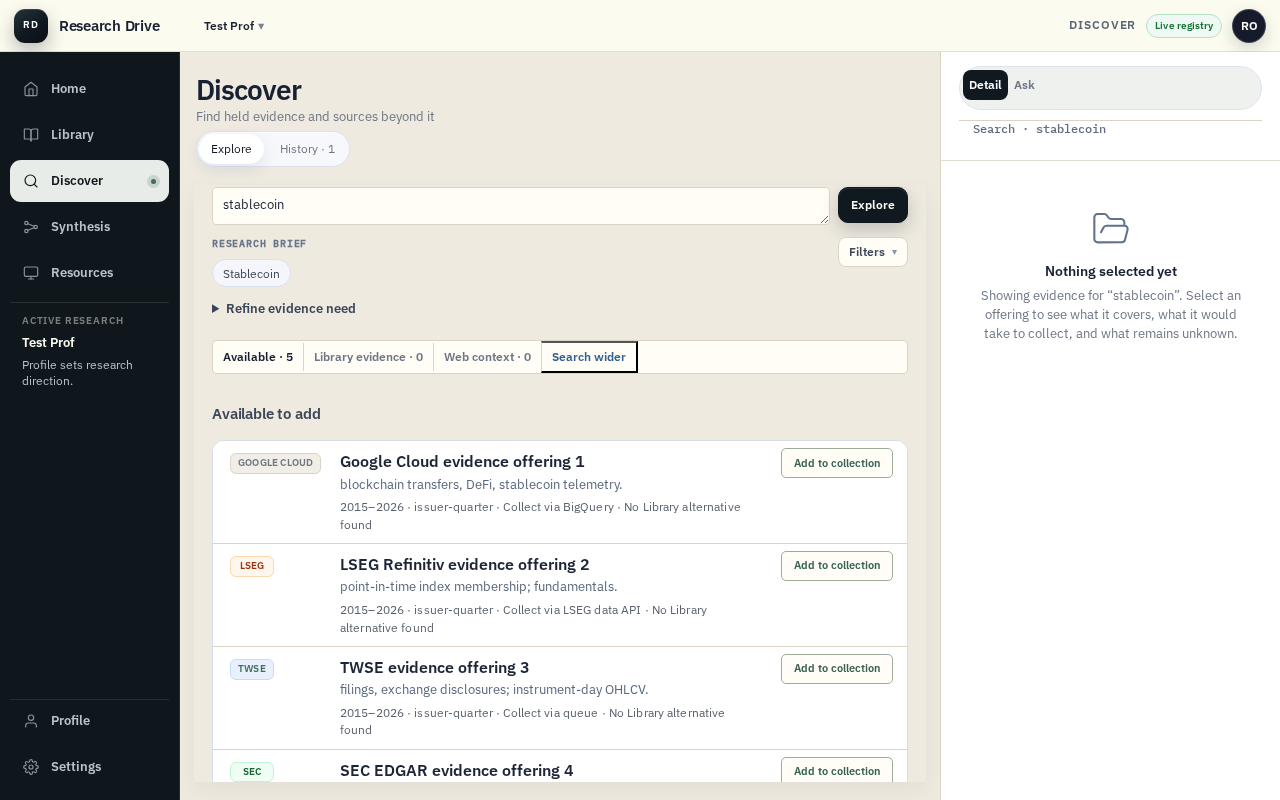
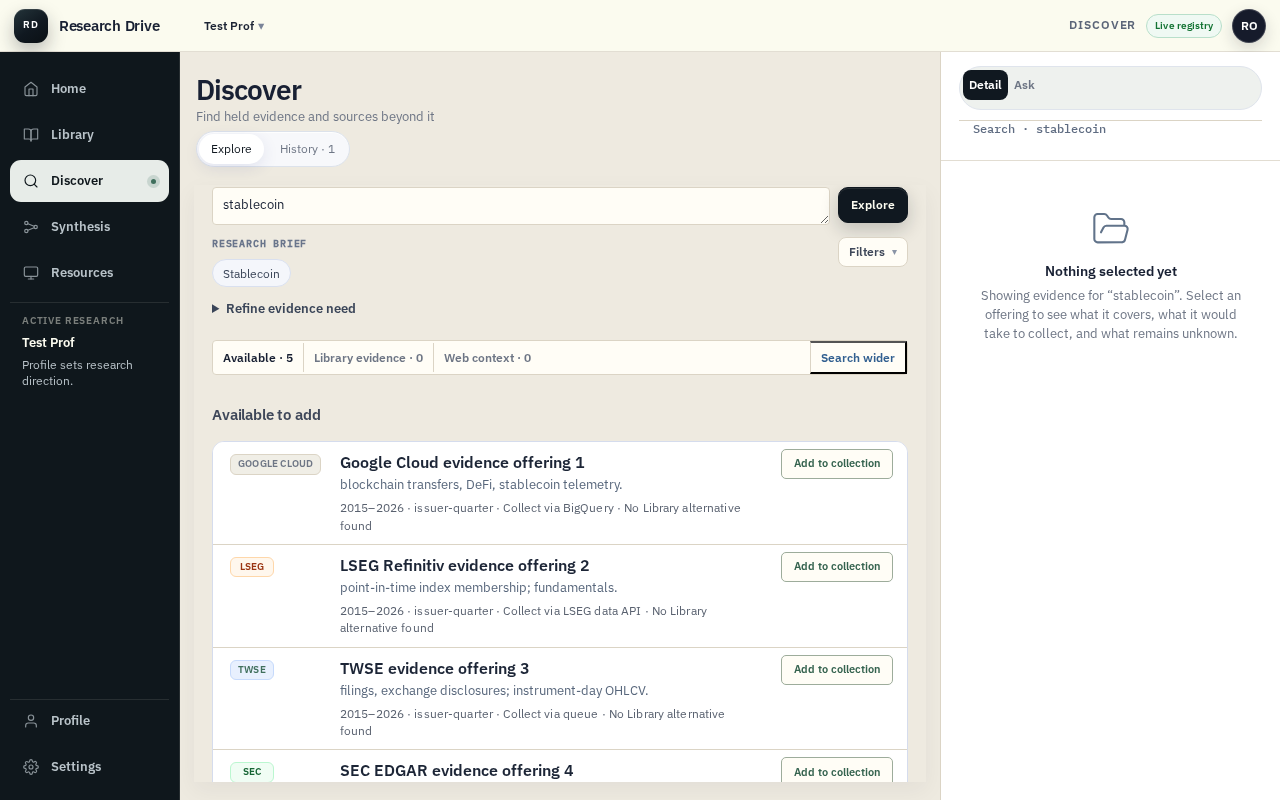
feat(discover): bound the result list and separate counts from actions
At 20 offerings the list painted as one unbroken column: no total, no sense
of what was below the fold, no way to act on it. The 5-item state we had been
reviewing against hid this completely.

UI_IMPLEMENTATION_PROGRAM already rules on this shape for History -- "Initial
lifecycle viewport budget is 8-12 rows with explicit Load more; do not
recreate an endless activity feed through infinite scrolling" -- so the
results list takes the same discipline rather than a new invention: eight
rows, the total stated, and expansion as a deliberate act. A selection below
the budget forces the list open and disables collapsing, so a selected
offering can never be hidden by the budget.

I did not add a sort control. Ranking is already stated and grounded
("Ranked using active research + interpreted evidence need"); a sort
dropdown is UI the frozen Discover appendix does not specify, and inventing
it here is how composition drifts.

The chrome strip styled counts and actions identically, so `Search wider`
read as a selected fourth tab beside "Available · 20" rather than as
something pressable. Counts stay left as scope segments; actions group right
in the action colour. Chrome type goes 11.5px -> 12px, since half-pixel type
is the same drift as 13.12px.

Gated: above the budget the list renders exactly 8 rows and an expander
carrying the total; at or below it, no expander appears.

diff --git a/drive/src/v2/BrowsePage.jsx b/drive/src/v2/BrowsePage.jsx
@@ -690,6 +690,18 @@ function LibraryResultList({ rows, labIds, selectedId, onSelectRow }) {
   );
 }
 
+/**
+ * The initial result budget.
+ *
+ * Rendering 20 ranked offerings as one unbroken column gave the researcher no
+ * sense of how much was below the fold and no way to act on it -- the same
+ * failure UI_IMPLEMENTATION_PROGRAM forbids for History: "Initial lifecycle
+ * viewport budget is 8-12 rows with explicit `Load more`; do not recreate an
+ * endless activity feed through infinite scrolling." The results list gets the
+ * same discipline, so the count is stated and expanding is a deliberate act.
+ */
+const RESULT_BUDGET = 8;
+
 function DiscoverCandidateList({
   rows,
   labIds,
@@ -698,20 +710,54 @@ function DiscoverCandidateList({
   onAdd,
   externalCatalogue = false,
 }) {
+  const [showAll, setShowAll] = useState(false);
+  // A selection below the fold must not be hidden by the budget.
+  const selectedBeyondBudget = rows
+    .slice(RESULT_BUDGET)
+    .some((row) => candidateKey(row) === selectedId);
+  const expanded = showAll || selectedBeyondBudget;
+  const visible = expanded ? rows : rows.slice(0, RESULT_BUDGET);
+  const hidden = rows.length - visible.length;
+
   return (
-    <ul className="rd-v2-catalog rd-v2-discover-candidates" aria-label="Discover candidates">
-      {rows.map((row) => (
-        <DiscoverCandidateRow
-          key={candidateKey(row) || candidateTitle(row)}
-          row={row}
-          labIds={labIds}
-          selectedId={selectedId}
-          onSelectRow={onSelectRow}
-          onAdd={onAdd}
-          externalCatalogue={externalCatalogue}
-        />
-      ))}
-    </ul>
+    <>
+      <ul className="rd-v2-catalog rd-v2-discover-candidates" aria-label="Discover candidates">
+        {visible.map((row) => (
+          <DiscoverCandidateRow
+            key={candidateKey(row) || candidateTitle(row)}
+            row={row}
+            labIds={labIds}
+            selectedId={selectedId}
+            onSelectRow={onSelectRow}
+            onAdd={onAdd}
+            externalCatalogue={externalCatalogue}
+          />
+        ))}
+      </ul>
+      {hidden > 0 ? (
+        <button
+          type="button"
+          className="rd-v2-discover-show-all"
+          data-testid="discover-show-all"
+          onClick={() => setShowAll(true)}
+        >
+          Show all {rows.length} — {hidden} more below
+        </button>
+      ) : null}
+      {expanded && rows.length > RESULT_BUDGET ? (
+        <button
+          type="button"
+          className="rd-v2-discover-show-all"
+          data-testid="discover-show-fewer"
+          onClick={() => setShowAll(false)}
+          disabled={selectedBeyondBudget}
+        >
+          {selectedBeyondBudget
+            ? `Showing all ${rows.length} — a selected offering is below the first ${RESULT_BUDGET}`
+            : `Show first ${RESULT_BUDGET}`}
+        </button>
+      ) : null}
+    </>
   );
 }
 

diff --git a/drive/src/v2/v2.css b/drive/src/v2/v2.css
@@ -5925,9 +5925,26 @@ aside.rd-v2-rail .rd-v2-eval-actions > .rd-v2-btn {
   padding: 6px 10px;
   border-left: 1px solid var(--rd-border);
   color: var(--rd-muted);
-  font-size: 11.5px;
+  font-size: 12px;
   font-weight: 600;
   background: transparent;
+}
+
+/* The counts and the actions were styled identically inside one segmented
+   strip, so `Search wider` read as a selected fourth tab sitting beside
+   "Available · 5" rather than as something you could press. Counts stay left
+   as scope segments; actions group right and take an action colour. */
+.rd-v2-discover-explore-chrome > button:first-of-type {
+  margin-left: auto;
+}
+
+.rd-v2-discover-explore-chrome > button {
+  color: #35634f;
+  cursor: pointer;
+}
+
+.rd-v2-discover-explore-chrome > button:hover:not(:disabled) {
+  background: color-mix(in srgb, #dceee2 40%, transparent);
 }
 .rd-v2-discover-explore-chrome > :first-child,
 .rd-v2-discover-explore-chrome > .rd-v2-discover-library-evidence:first-child > summary {
@@ -9781,4 +9798,32 @@ button:disabled { opacity: 0.55; cursor: not-allowed; }
   display: flex;
   flex-direction: column;
   gap: 6px;
+}
+
+/* Explicit "show all" for the results list -- the same discipline History
+   uses. It is a full-width footer to the list rather than a floating link, so
+   it reads as the end of the visible set and not as another row. */
+.rd-v2-discover-show-all {
+  display: block;
+  width: 100%;
+  margin: 0;
+  padding: 9px 14px;
+  border: 0;
+  border-top: 1px solid var(--rd-border);
+  background: transparent;
+  color: #35634f;
+  cursor: pointer;
+  font: inherit;
+  font-size: 12px;
+  font-weight: 650;
+  text-align: left;
+}
+
+.rd-v2-discover-show-all:hover:not(:disabled) {
+  background: color-mix(in srgb, #dceee2 34%, transparent);
+}
+
+.rd-v2-discover-show-all:disabled {
+  color: var(--rd-muted);
+  cursor: default;
 }

diff --git a/e2e/program-visual-states.spec.js b/e2e/program-visual-states.spec.js
@@ -107,8 +107,22 @@ test.describe("Discover — required visual states", () => {
 
         await expectNoHorizontalOverflow(page);
 
-        // Every offering states what it contains (adaptive freeze §3, §12).
         const rows = page.locator(".rd-v2-discover-candidate");
+        const showAll = page.getByTestId("discover-show-all");
+
+        if (count > 8) {
+          // A ranked list must not paint as an endless column: bounded initial
+          // set, explicit expansion, and the total stated up front.
+          await expect(rows).toHaveCount(8);
+          await expect(showAll).toBeVisible();
+          await expect(showAll).toContainText(String(count));
+          await shot(page, `discover-${count}-offerings-bounded-${label}`);
+          await showAll.click();
+        } else {
+          await expect(showAll).toHaveCount(0);
+        }
+
+        // Every offering states what it contains (adaptive freeze §3, §12).
         await expect(rows).toHaveCount(count);
         const described = await page
           .locator(".rd-v2-discover-evidence")
